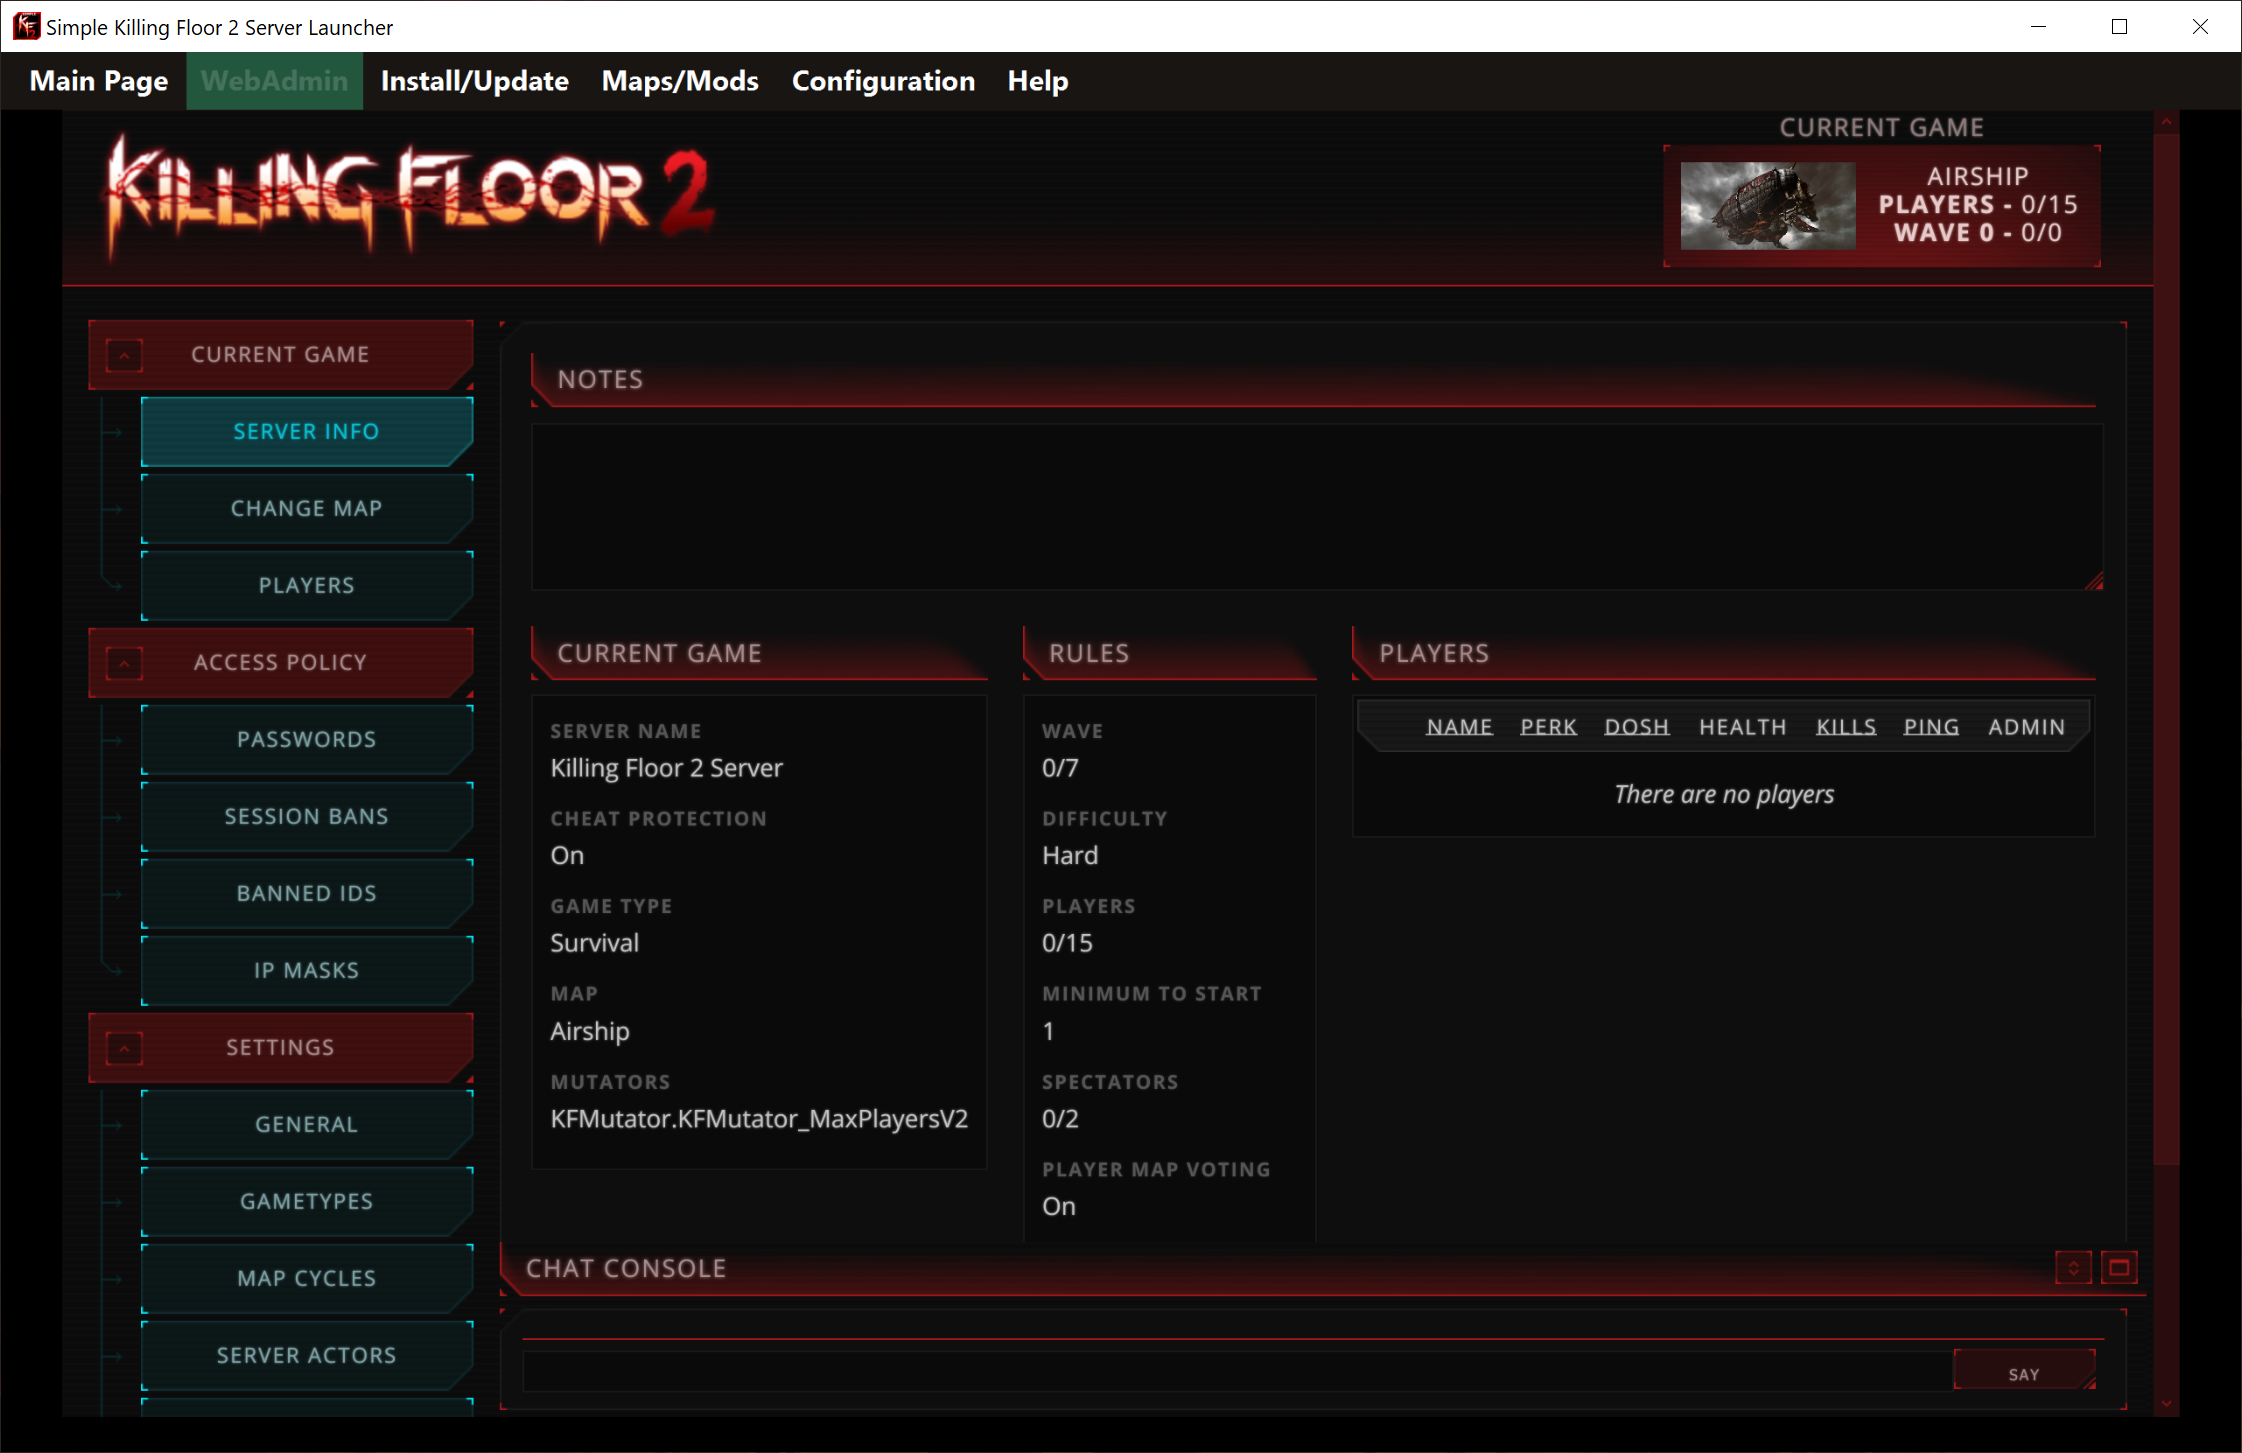
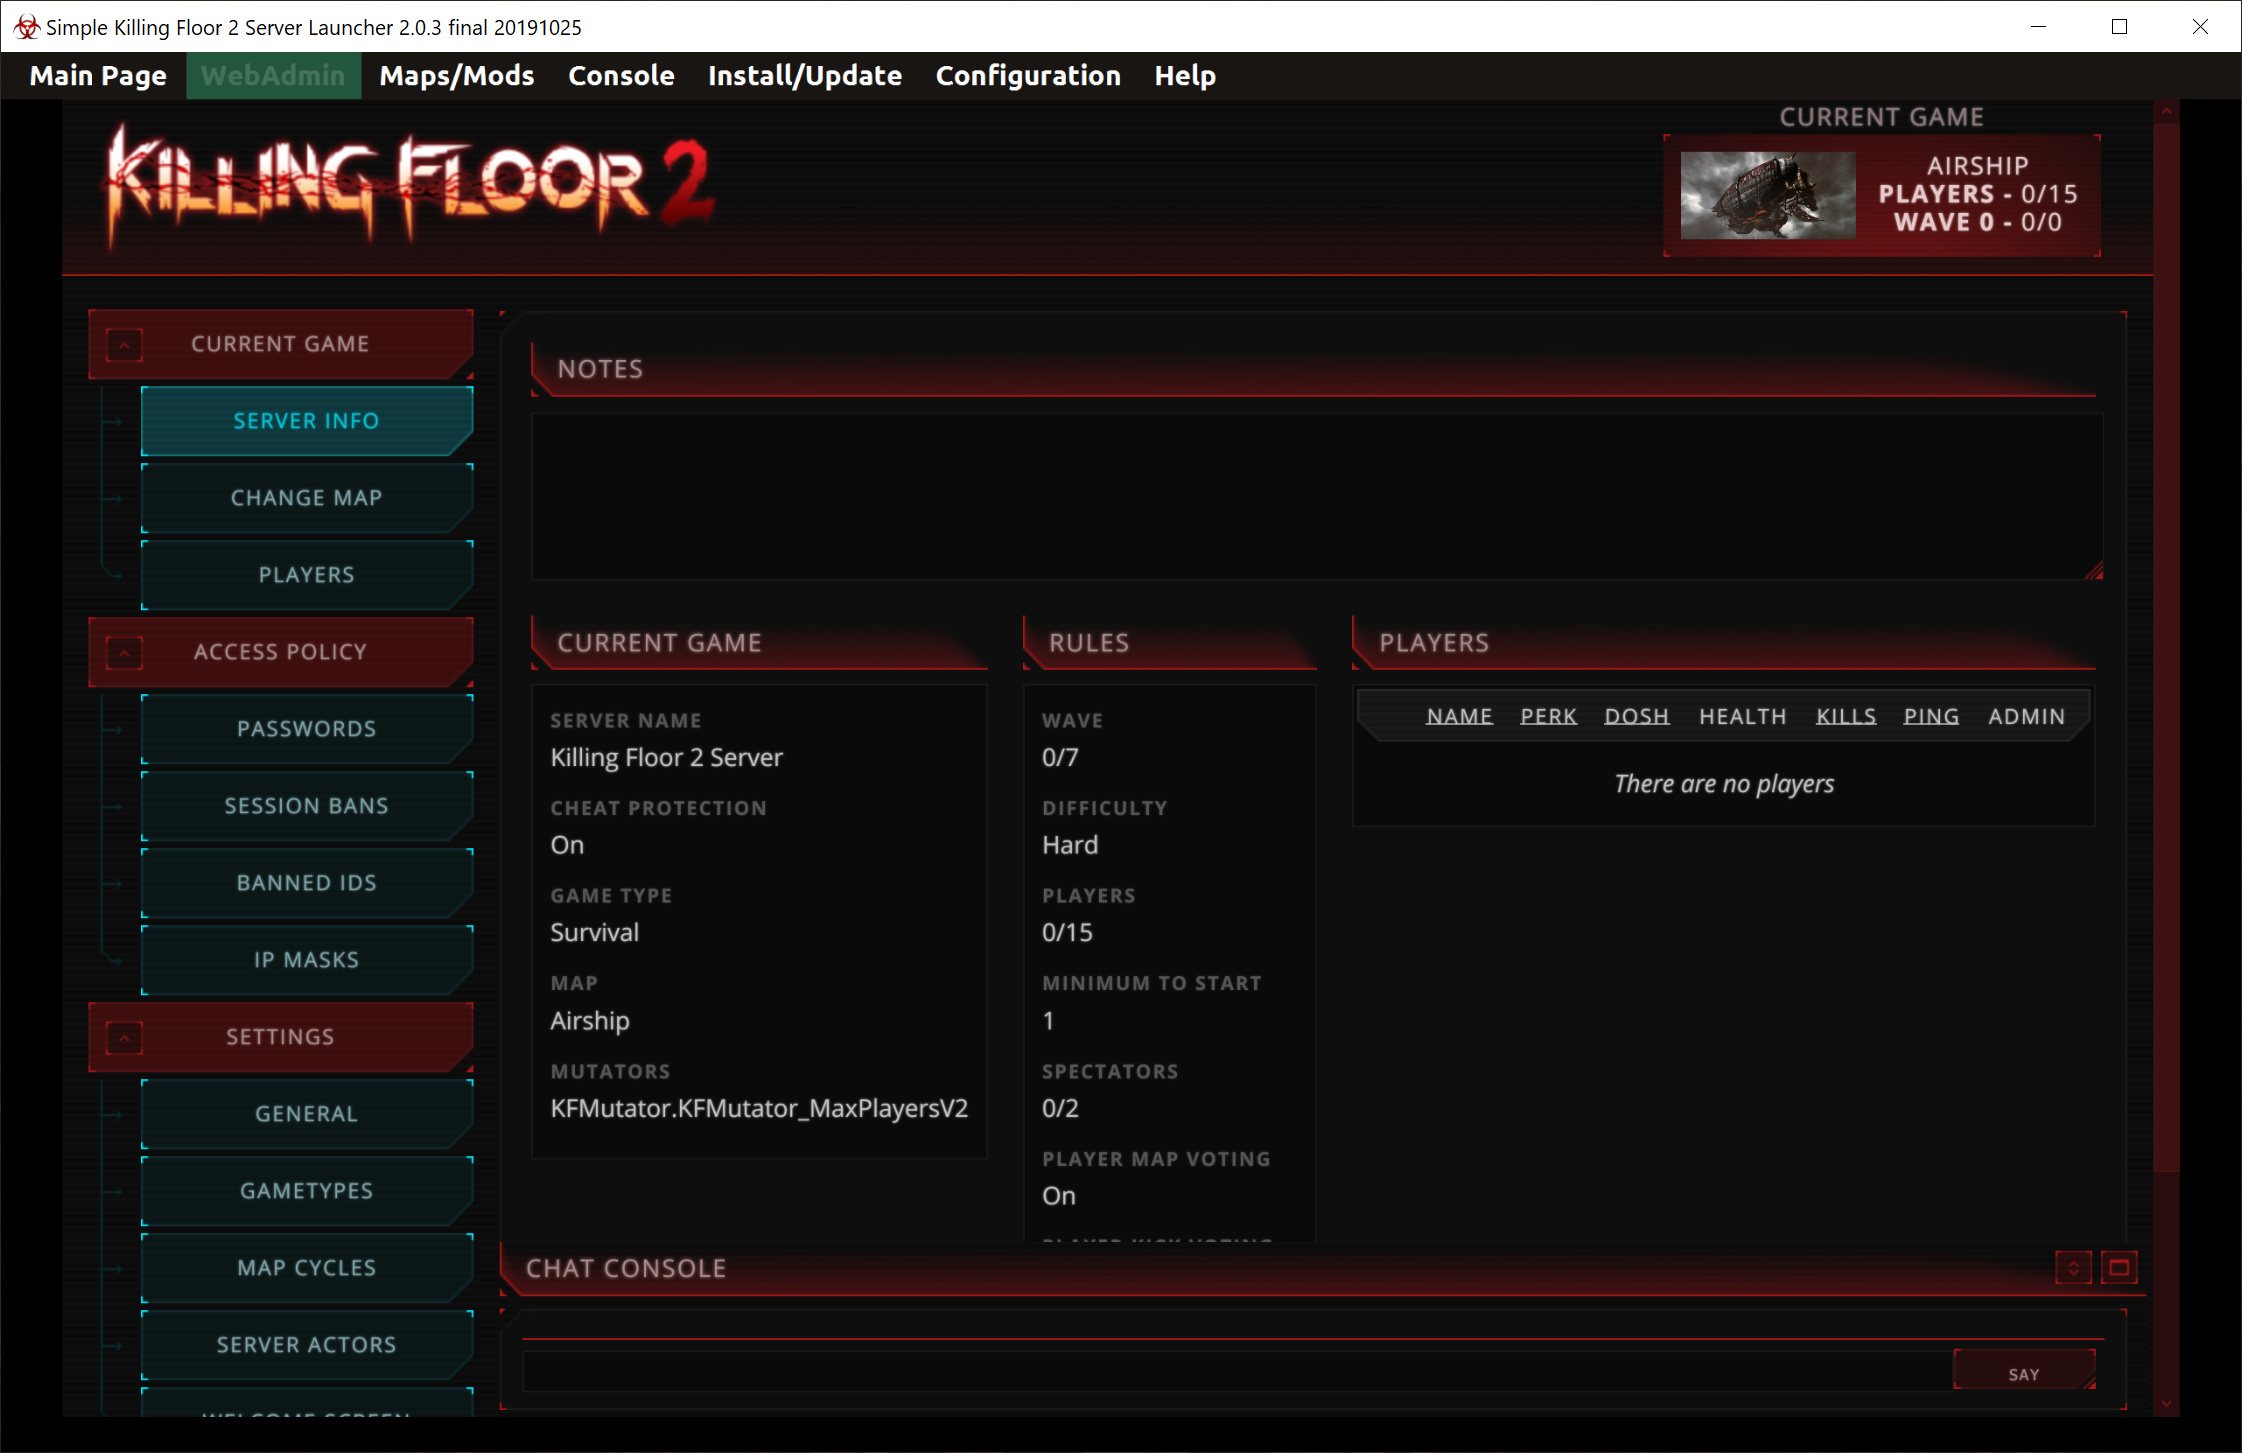
Updates in screenshots and documentation

diff --git a/src/main/java/stories/maincontent/MainContentController.java b/src/main/java/stories/maincontent/MainContentController.java
@@ -639,6 +639,9 @@ public class MainContentController implements Initializable {
 
         String takeoverLabelText = propertyService.getPropertyValue("properties/languages/" + languageCode + ".properties","prop.label.takeover");
         takeoverLabel.setText(takeoverLabelText);
+
+        String takeoverText = propertyService.getPropertyValue("properties/languages/" + languageCode + ".properties","prop.label.takeoverEnable");
+        takeover.setText(takeoverText);
         loadTooltip(languageCode, "prop.tooltip.takeover", takeoverImg, takeoverLabel, takeover);
 
         String portsLabelText = propertyService.getPropertyValue("properties/languages/" + languageCode + ".properties","prop.label.ports");

diff --git a/LEEME.md b/LEEME.md
@@ -22,8 +22,9 @@ Aplicación para personalizar y lanzar fácilmente un servidor de Killing Floor 
 > 4. [Vista rapida](#vista-rapida)
 >   - [Pagina principal](#pagina-principal)
 >   - [Pagina WebAdmin](#pagina-webadmin)
->   - [Pagina instalar o actualizar](#pagina-instalar-o-actualizar)
 >   - [Pagina mapas y mods](#pagina-mapas-y-mods)
+>   - [Pagina de la consola](#pagina-de-la-consola)
+>   - [Pagina instalar o actualizar](#pagina-instalar-o-actualizar)
 >   - [Configuracion-Perfiles](#configuracion-perfiles)
 >   - [Configuracion-Tipos de juegos](#configuracion-tipos-de-juegos)
 >   - [Configuracion-Dificultades](#configuracion-dificultades)
@@ -35,7 +36,7 @@ Aplicación para personalizar y lanzar fácilmente un servidor de Killing Floor 
 ## Caracteristicas
 
 ```
-Versión: 2.0.2 final
+Versión: 2.0.3 final
 S.O. soportados: Microsoft Windows y Linux (Ubuntu/Debian)
 Autor: César Rodríguez González
 Idiomas: Inglés, Español, Francés
@@ -122,21 +123,21 @@ $ java -jar SimpleKF2ServerLauncher.jar
 
 * _Contraseña web_: Este campo es opcional. Permite proteger la página de WebAdmin con una contraseña para autenticarse.
 
+* _Toma de control_: Si este check está habilitado, otras personas pueden tomar control del servidor, esto es, cambiar la contraseña y otras configuraciones, etc.
+
 * _Puertos_: Los puertos son opcionales. Necesitas abrir los puertos en tu router y firewall. Si se lanza más de un servidor, los puertos deben ser diferentes entre ellos (una configuración por perfil).
-
-* _Tu clan_: Este campo es opcional.
-
-* _Tu página web_: Este campo es opcional.
-
-* _URL imágen servidor_: Este campo es opcional. Este enlace debe corresponder a una imagen subida a internet que será usada como imágen de bienvenida en el servidor de Killing Floor 2. El formato y resolución debe ser PNG 512x256 píxeles.
-
-* _Mensaje de bienvenida_: Este campo es opcional. Es un mensaje de bienvenida en la pantalla iniciar del servidor.
 
 * _Parámetros personalizados_: Este campo es opcional. Define parámetros adicionales. El formato debe ser: [?]parametro1=valor1?parametror2=valor2?...?parametroN=valorN
 
   [?] significa: opcionalmente puedes comenzar los parámetros por "?"
 
-* _Consola_: Este campo es rellenado automáticamente cuando se ejecuta el servidor. Está compuesto por comandos de consola necesarios para ejecutar el servidor.
+* _URL imágen servidor_: Este campo es opcional. Este enlace debe corresponder a una imagen subida a internet que será usada como imágen de bienvenida en el servidor de Killing Floor 2. El formato y resolución debe ser PNG 512x256 píxeles.
+  
+* _Tu clan_: Este campo es opcional.
+
+* _Tu página web_: Este campo es opcional.
+
+* _Mensaje de bienvenida_: Este campo es opcional. Es un mensaje de bienvenida en la pantalla iniciar del servidor.
 
 * _Ejecutar servidor_: Ejecuta un servidor Killing Floor 2 con los filtros especificados. Todos los filtros obligatorios deben ser especificados. Los ficheros de configuración del servidor están ubicados en la carpeta: KFGame/Config/NOMBREPERFIL. De esta manera, los ficheros de configuración originales localizados en la carpeta: KFGame/Config nunca son modificados.
 Si hay más de un perfil definido, puedes lanzar múltiples servidores a la vez (uno por perfil). 
@@ -149,19 +150,6 @@ En esta sección puedes acceder a la página WebAdmin sólamente si el servidor 
 WebAdmin te permite gestionar y controlar el servidor de Killing Floor 2.
 
 ![Launcher screenshot](src/main/resources/images/documentation/screenshot02.png)
-
-#### Pagina instalar o actualizar
-En esta sección puedes instalar o actualizar el servidor de Killing Floor 2.
-
-![Launcher screenshot](src/main/resources/images/documentation/screenshot03.png)
-
-* _Carpeta de instalación_: Este campo es obligatorio. Necesario para encontrar la carpeta local donde el servidor debe ser instalado.
-
-* _Validar ficheros_: Este campo es opcional. Si está activado, la operación de instalar/actualizar revisa la integridad de los ficheros del servidor. Es una operación lenta.
-
-* _¿Actualizar a beta?_: Este campo es opcional. Si está activado, la operación actualiza a una versión beta del juego (si estuviera disponible).
-
-* _Rama beta_: Este campo es opcional. El usuario especifica el nombre de la rama beta (sólamente usado cuando el check anterior ha sido activado).
 
 #### Pagina Mapas y Mods
 En esta sección puedes gestionar mapas personalizados, mods y mapas oficiales presentes en el servidor.
@@ -183,6 +171,24 @@ En esta sección puedes gestionar mapas personalizados, mods y mapas oficiales p
 * _Buscar en WorkShop_: Permite navegar en las páginas de WorkShop buscando nuevos mapas y mods. Luego puedes seleccionar cuál de ellos añadir al lanzador.
 
 ![Launcher screenshot](src/main/resources/images/documentation/screenshot05.png)
+
+#### Pagina de la consola
+En esta sección puedes ver los comandos generados por el lanzador cuando ejecutas o te unes a un servidor.
+
+![Launcher screenshot](src/main/resources/images/documentation/screenshot11.png)
+
+#### Pagina instalar o actualizar
+En esta sección puedes instalar o actualizar el servidor de Killing Floor 2.
+
+![Launcher screenshot](src/main/resources/images/documentation/screenshot03.png)
+
+* _Carpeta de instalación_: Este campo es obligatorio. Necesario para encontrar la carpeta local donde el servidor debe ser instalado.
+
+* _Validar ficheros_: Este campo es opcional. Si está activado, la operación de instalar/actualizar revisa la integridad de los ficheros del servidor. Es una operación lenta.
+
+* _¿Actualizar a beta?_: Este campo es opcional. Si está activado, la operación actualiza a una versión beta del juego (si estuviera disponible).
+
+* _Rama beta_: Este campo es opcional. El usuario especifica el nombre de la rama beta (sólamente usado cuando el check anterior ha sido activado).
 
 #### Configuracion-Perfiles
 En esta sección puedes gestionar perfiles desde el lanzador. Cada perfil es usado para personalizar tus parámetros del servidor.

diff --git a/README.md b/README.md
@@ -22,8 +22,9 @@ Application to easily customize and launch a Killing Floor 2 server through a vi
 > 4. [Quick view](#quick-view)
 >   - [Main page](#main-page)
 >   - [WebAdmin page](#webadmin-page)
->   - [Install or update page](#install-or-update-page)
 >   - [Maps and Mods page](#maps-and-mods-page)
+>   - [Console page](#console-page)
+>   - [Install or update page](#install-or-update-page)
 >   - [Configuration-Profiles](#configuration-profiles)
 >   - [Configuration-Game types](#configuration-game-types)
 >   - [Configuration-Difficulties](#configuration-difficulties)
@@ -35,7 +36,7 @@ Application to easily customize and launch a Killing Floor 2 server through a vi
 ## Features
 
 ```
-Version: 2.0.2 final
+Version: 2.0.3 final
 Supported OS: Microsoft Windows and Linux (Ubuntu/Debian)
 Author: César Rodríguez González
 Languages: English, Spanish, French
@@ -123,21 +124,21 @@ $ java -jar SimpleKF2ServerLauncher.jar
 
 * _Web password_: This field is optional. It allows you to protect WebAdmin page with a password to login.
 
+* _Takeover_: If this check is enabled other people can takeover the server, that means, change the password, change other configurations and take the control of the server.
+
 * _Ports_: Ports are optional. You need to open ports in your router and firewall. If more than one server is launched, ports must be different between them (one configuration per profile).
-
-* _Your clan_: This field is optional.
-
-* _Your web link_: This field is optional.
-
-* _URL image server_: This field is optional. This link must return an uploaded image to internet and it will be used as the welcome image in your Killing Floor 2 server. Format and resolution must be PNG 512x256 pixels.
-
-* _Welcome message_: This field is optional. It's a welcome message in starting screen of the server.
 
 * _Custom parameters_: This field is optional. It defines additional parameters. The format must be: [?]parameter1=value1?parameter2=value2?...?parameterN=valueN
 
   [?] means: optionally you can start parameters by "?"
 
-* _Console_: This field is automatically filled when the server is running. It's composed by console commands to execute the server.
+* _URL image server_: This field is optional. This link must return an uploaded image to internet and it will be used as the welcome image in your Killing Floor 2 server. Format and resolution must be PNG 512x256 pixels.
+
+* _Your clan_: This field is optional.
+
+* _Your web link_: This field is optional.
+
+* _Welcome message_: This field is optional. It's a welcome message in starting screen of the server.
 
 * _Run server_: Run a Killing Floor 2 server with the specified filters. All mandatory fields must be specified. Server config files are placed in folder: KFGame/Config/PROFILENAME. So, the original config files placed in folder: KFGame/Config are never modified.
 If more than one profile, you can launch multiple servers at once (one per profile).
@@ -150,19 +151,6 @@ In this section you can access to WebAdmin page only if the server is already st
 WebAdmin allows you to manage and control the Killing Floor 2 server.
 
 ![Launcher screenshot](src/main/resources/images/documentation/screenshot02.png)
-
-#### Install or update page
-In this section you can install or update the Killing Floor 2 server.
-
-![Launcher screenshot](src/main/resources/images/documentation/screenshot03.png)
-
-* _Installation folder_: This field is mandatory. Needed to find the local folder where the server must be installed.
-
-* _Validate files_: This field is optional. If enabled, the install/update operation checks the integrity of the server's files. Slow operation.
-
-* _Update to beta?_: This field is optional. If enabled, the operation updates to a beta version of the game (if available).
-
-* _Beta brunch_: This field is optional. The user specifies the name of the beta brunch (only used when last check was enabled).
 
 #### Maps and Mods page
 In this section you can manage custom maps, mods and official maps present in the server.
@@ -185,6 +173,23 @@ In this section you can manage custom maps, mods and official maps present in th
 
 ![Launcher screenshot](src/main/resources/images/documentation/screenshot05.png)
 
+#### Console page
+In this section you can see the commands generated by the launcher when you run or join a server.
+
+![Launcher screenshot](src/main/resources/images/documentation/screenshot11.png)
+
+#### Install or update page
+In this section you can install or update the Killing Floor 2 server.
+
+![Launcher screenshot](src/main/resources/images/documentation/screenshot03.png)
+
+* _Installation folder_: This field is mandatory. Needed to find the local folder where the server must be installed.
+
+* _Validate files_: This field is optional. If enabled, the install/update operation checks the integrity of the server's files. Slow operation.
+
+* _Update to beta?_: This field is optional. If enabled, the operation updates to a beta version of the game (if available).
+
+* _Beta brunch_: This field is optional. The user specifies the name of the beta brunch (only used when last check was enabled).
 
 #### Configuration-Profiles
 In this section you can manage profiles from the launcher. Each profile is used to customize your server parameters.
